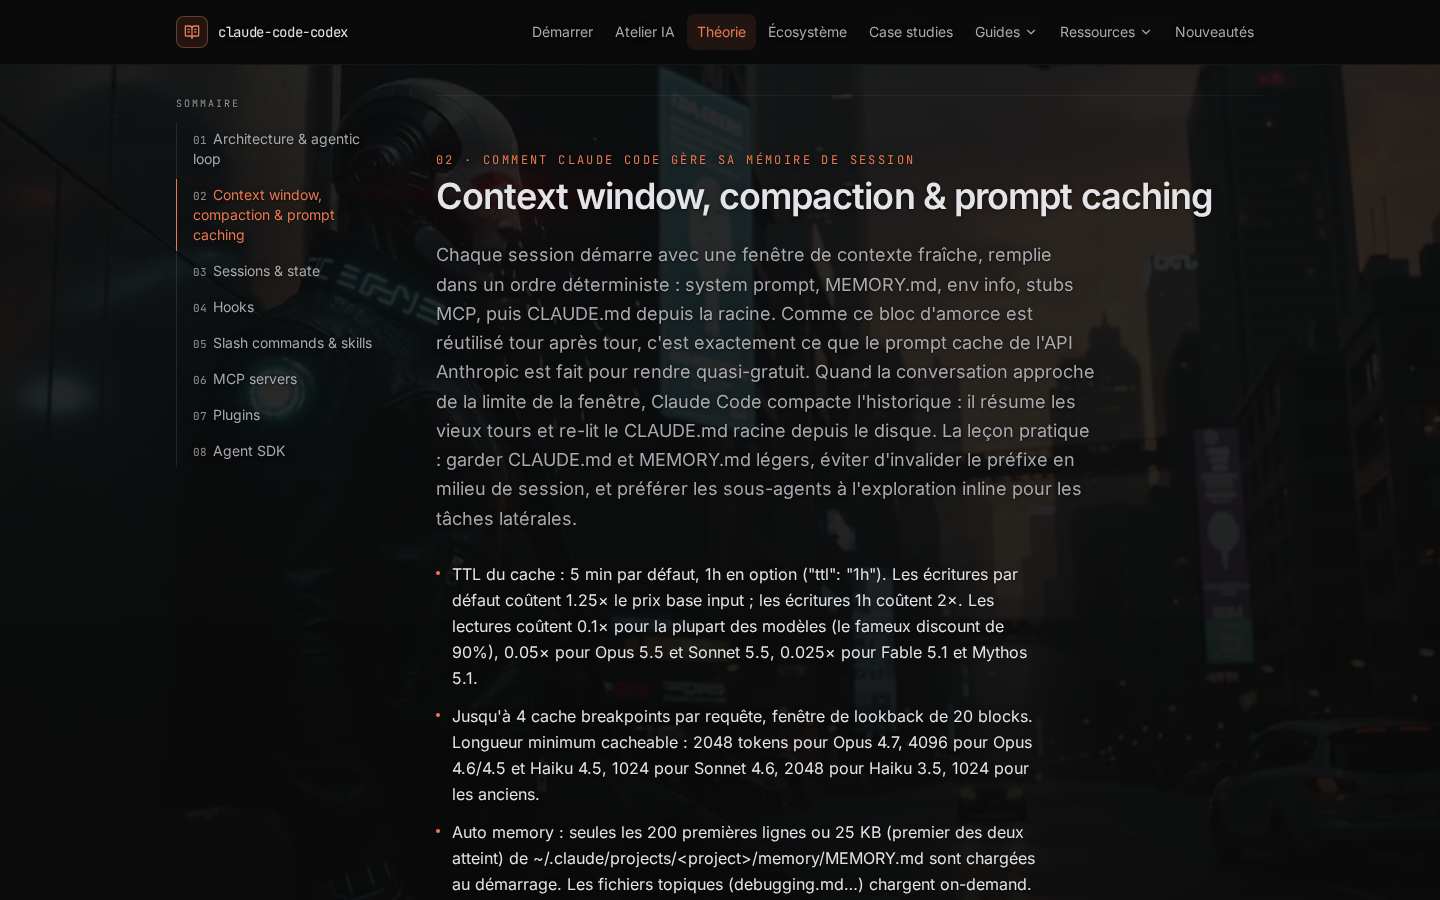
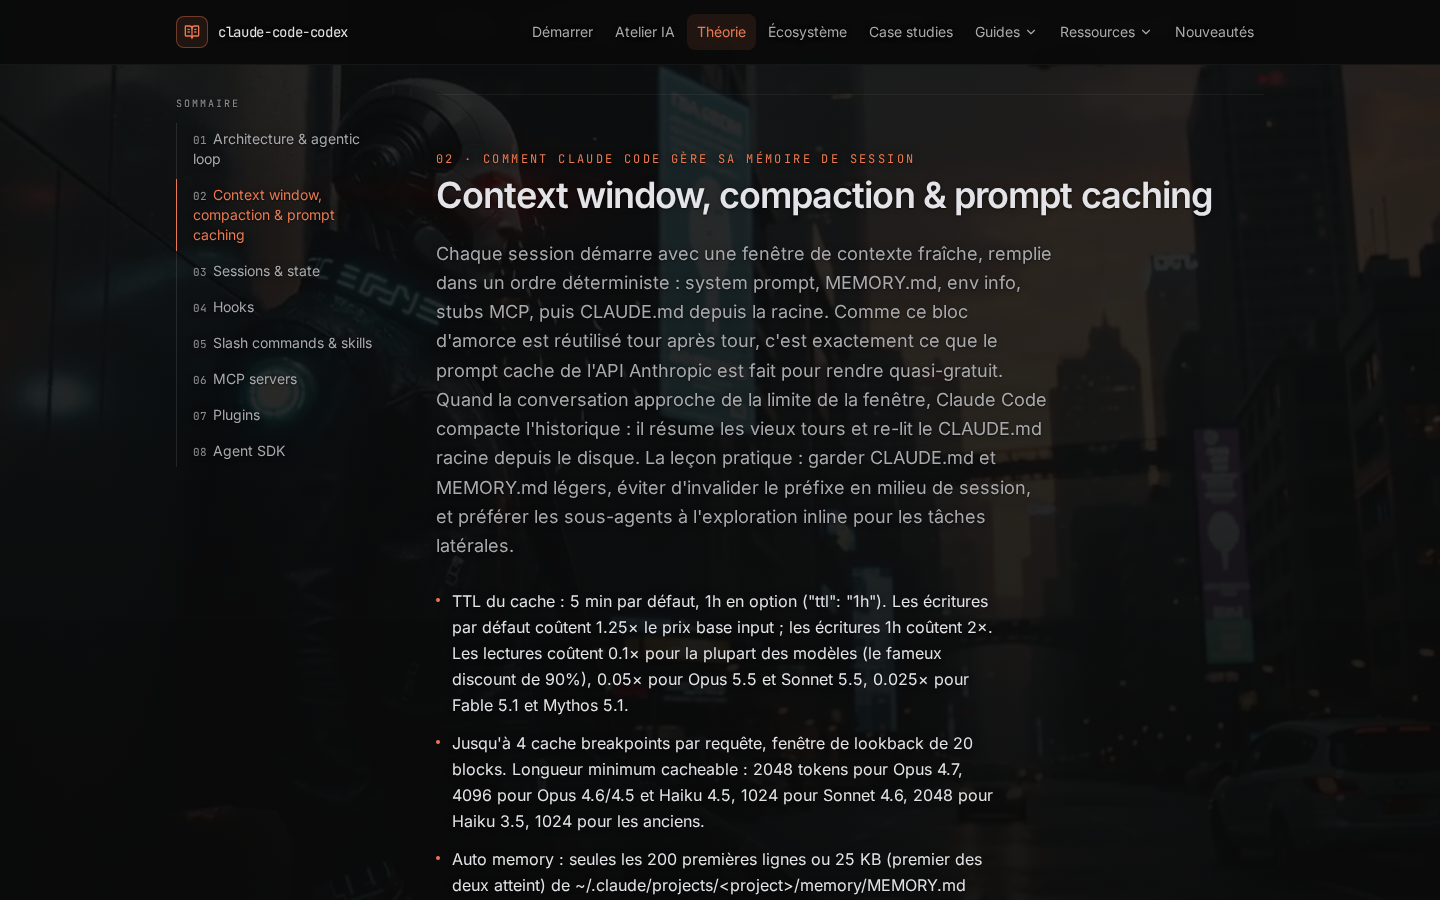
fix(L5/t1): /theory — lignes ≤ 76 caractères avec Inter, chevron sans rotation en mouvement réduit, un seul focus dans le sommaire
Suite de la revue UX de L5 (constats m1 à m3) :
- m1 (WCAG 1.4.8) : introductions et puces max-w-[60ch] → max-w-[56ch]. Mesuré sur le site
  construit à 1440 : 80 → 76 caractères au plus avec Inter chargée, 75 avec la police de repli.
  Le test mesurait sans attendre `document.fonts.ready` ; il mesure maintenant deux fois,
  polices web bloquées et Inter réellement chargée (face 400 « loaded » exigée, sinon
  diagnostic « non mesurée »), seuil 80 dans les deux cas.
- m2 (WCAG 2.3.3) : chevron du sommaire repliable `motion-reduce:transition-none` ; le test du
  téléphone tourne en reducedMotion: reduce et exige zéro animation sur le chevron.
- m3 (Nielsen 4) : liens du sommaire (bureau TheoryTOC et téléphone) au contour plein 2 px
  claude du résumé et des blocs de code, au lieu de l'anneau « auto » de Chromium ; testé au
  clavier (couleur lue après la transition des couleurs).
Rouge sur le code de L5 (focus des liens, chevron animé) ; vert après. npm test : 395 ok, 1 skip.
Entrée Nouveautés corrigée (92 à 113 caractères, cadre de focus sur toutes les pages à code
défilant) et complétée (capture du focus du sommaire à 390, capture des lignes à 1440 refaite).

diff --git a/frontend/src/components/site/TheoryTOC.vue b/frontend/src/components/site/TheoryTOC.vue
@@ -49,7 +49,7 @@ onUnmounted(() => {
           :href="`#${entry.id}`"
           :aria-current="activeId === entry.id ? 'true' : undefined"
           :class="[
-            '-ml-px block pl-4 py-1.5 text-sm border-l transition-colors',
+            '-ml-px block pl-4 py-1.5 text-sm border-l transition-colors focus-visible:outline-2 focus-visible:-outline-offset-2 focus-visible:outline-claude',
             activeId === entry.id
               ? 'border-claude text-claude'
               : 'border-transparent text-ink-muted hover:text-ink hover:border-white/30',

diff --git a/docs/nouveautes/2026-11-21-page-theorie-un-sommaire-au-telephone-et-des-lignes-plus-courtes.md b/docs/nouveautes/2026-11-21-page-theorie-un-sommaire-au-telephone-et-des-lignes-plus-courtes.md
@@ -9,13 +9,14 @@ captures:
   - { file: captures/L5-theorie-lignes-avant-1440.png, alt: "Avant, au bureau : la section Context window, dont les paragraphes s'étirent sur toute la largeur, jusqu'à 108 caractères par ligne" }
   - { file: captures/L5-theorie-lignes-apres-1440.png, alt: "Après, au bureau : la même section, aux lignes plus courtes, et l'entrée 02 du sommaire de gauche mise en avant" }
   - { file: captures/L5-theorie-focus-code-apres-1440.png, alt: "Après : un bloc de code atteint au clavier, entouré d'un cadre orangé plein" }
+  - { file: captures/L5-theorie-sommaire-focus-apres-390.png, alt: "Après, au téléphone : le sommaire ouvert, son deuxième lien atteint au clavier et entouré du même cadre orangé que les blocs de code" }
 ---
-La page [Théorie](/theory/) a été passée en revue au bureau et au téléphone, avec les règles d'accessibilité du Web. Rien ne déborde sur le côté et les textes posés sur l'image de fond restent lisibles ; cinq défauts ont été corrigés.
+La page [Théorie](/theory/) a été passée en revue au bureau et au téléphone, avec les règles d'accessibilité du Web. Rien ne déborde sur le côté et les textes posés sur l'image de fond restent lisibles ; cinq défauts ont été corrigés, puis trois finitions après une seconde revue.
 
-- **Sommaire au téléphone et sur tablette** : la page compte huit sections et mesure près de 19 000 pixels de haut au téléphone, mais son sommaire n'existait qu'au bureau. Un sommaire repliable s'ouvre maintenant en tête de page, avec des liens de 44 pixels de haut.
-- **Longueur des lignes** : au bureau, les paragraphes allaient jusqu'à 108 caractères par ligne, ce qui fatigue la lecture. Ils s'arrêtent maintenant à 80.
+- **Sommaire au téléphone et sur tablette** : la page compte huit sections et mesure près de 19 000 pixels de haut au téléphone, mais son sommaire n'existait qu'au bureau. Un sommaire repliable s'ouvre maintenant en tête de page, avec des liens de 44 pixels de haut. Si vous avez demandé à votre système de réduire les animations, sa petite flèche bascule sans tourner.
+- **Longueur des lignes** : au bureau, les paragraphes allaient de 92 à 113 caractères par ligne, ce qui fatigue la lecture. Une première correction les ramenait près de 80, mais encore un peu au-delà avec la police réelle du site ; ils ne dépassent plus 76.
 - **Numéros du sommaire** : ce petit texte gris passait à 4,4 contre 1, sous le minimum de 4,5 contre 1. Il est maintenant à 5,8 contre 1.
-- **Blocs de code** : au clavier, on pouvait les atteindre pour les faire défiler, mais leur contour de focus était presque invisible, à 1 contre 1. Ils portent désormais un cadre orangé plein.
+- **Blocs de code** : au clavier, on pouvait les atteindre pour les faire défiler, mais leur contour de focus était presque invisible, à 1 contre 1. Ils portent désormais un cadre orangé plein, sur toutes les pages qui montrent du code défilant (Théorie, ArgoCD et Kubernetes pour les nuls, Cloudflare pour les nuls, l'étude de cas du harnais QA). Les liens du sommaire, au bureau comme au téléphone, prennent le même cadre.
 - **Section en cours** : le sommaire du bureau la signalait par la seule couleur ; un lecteur d'écran l'annonce maintenant comme la section courante.
 
-Un test refait ces mesures sur la page construite, au bureau et au téléphone ; il échouait sur l'ancienne version.
+Un test refait ces mesures sur la page construite, au bureau et au téléphone, avec la police réelle du site et avec la police de secours ; il échouait sur l'ancienne version.
